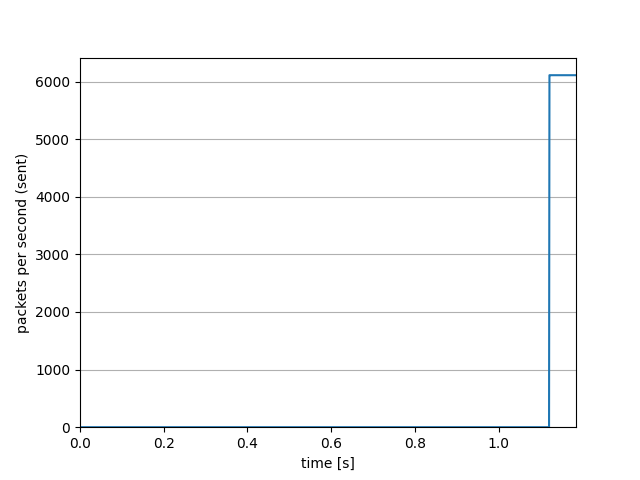
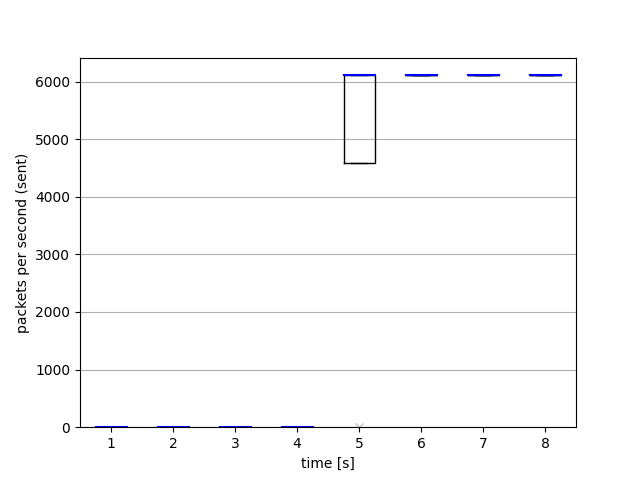
correct DataOutput

diff --git a/DataOutput.py b/DataOutput.py
@@ -281,7 +281,7 @@ class DataOutput:
 
                     plt.xlim([0, max(timestamps)])
                     plt.ylim([0, max(values) + 0.05 * max(values)])
-                    
+
                     if median:
                         data = self.__partition_data(self.lists[l], len(timestamps))
                         plt.boxplot(
@@ -332,16 +332,25 @@ class DataOutput:
                     else:
                         plt.ylabel("packets per second (sent)")
 
-                    plt.xlim([0, max(timestamps)])
                     plt.ylim([0, max(self.lists[l]) + 0.05 * max(self.lists[l])])
 
-                    plt.plot(timestamps, self.lists[l])
+                    if median:
+                        data = self.__partition_data(self.lists[l], len(timestamps))
+                        plt.boxplot(
+                            data,
+                            showfliers=True,
+                            flierprops=dict(marker="x", markeredgecolor="lightgrey"),
+                            medianprops=dict(color="blue", linewidth=1.5),
+                        )
+                    else:
+                        plt.xlim([0, max(timestamps)])
+                        plt.plot(timestamps, self.lists[l])
                 else:
                     plt.plot(timestamps, self.lists[l])
 
                 if median:
                     l += "_median"
-                    
+
                 if full:
                     l += "_full"
 
